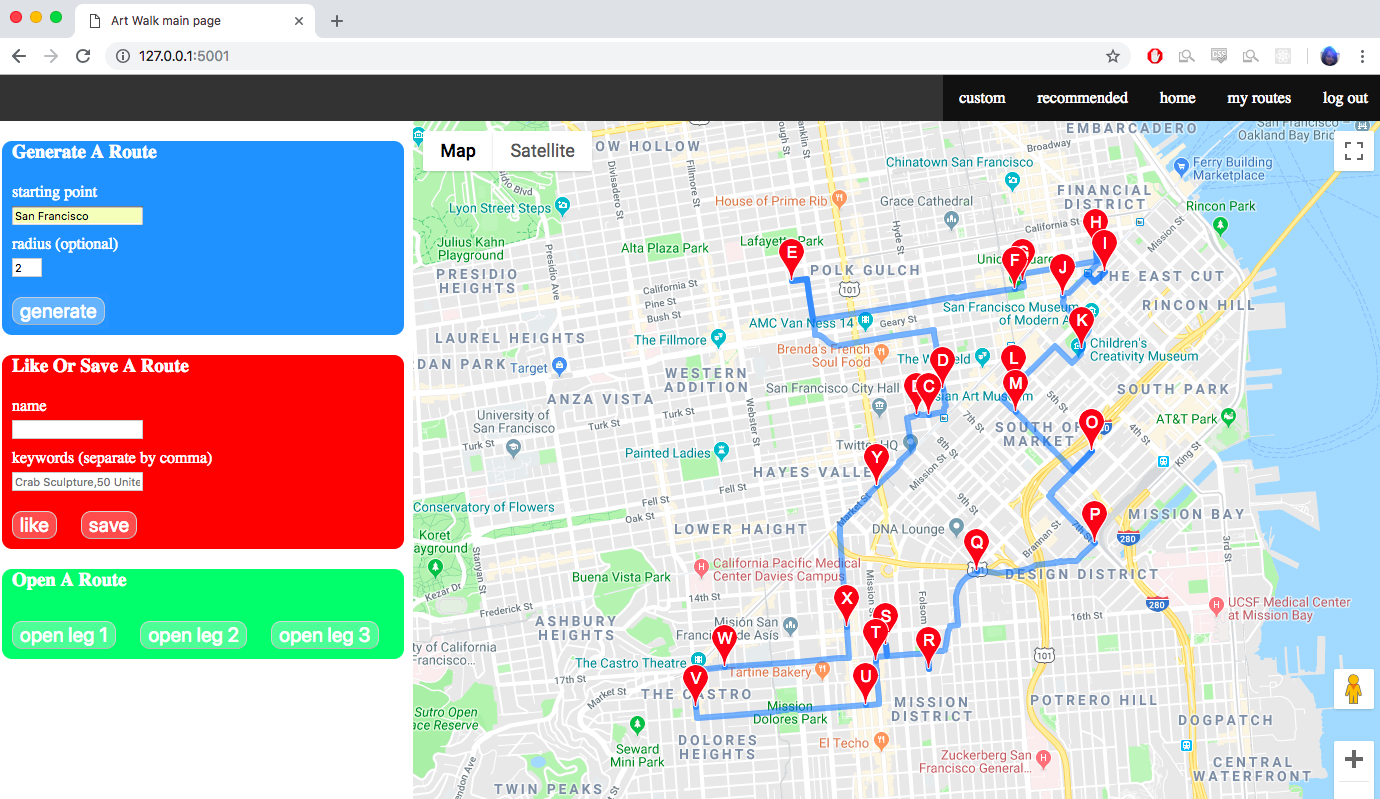
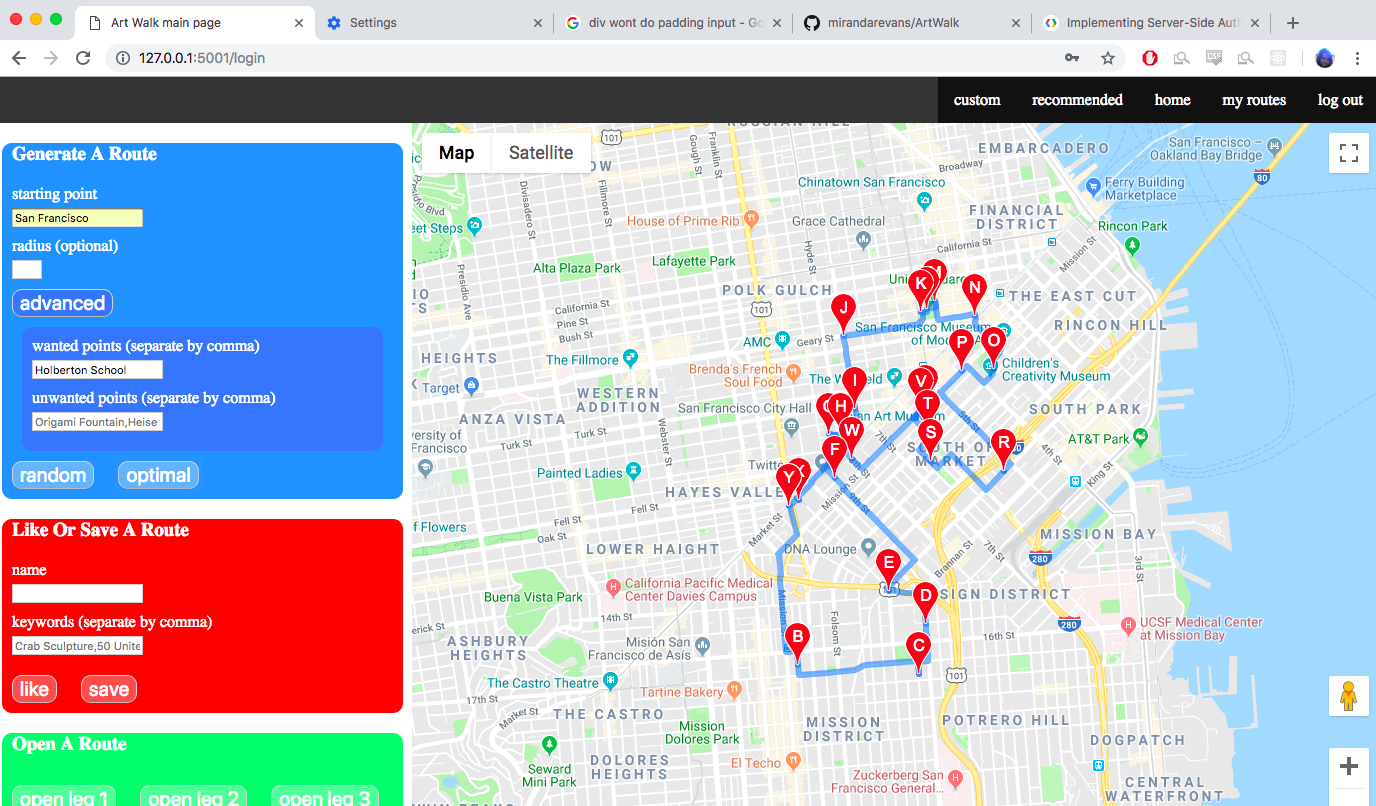
small update to readme

diff --git a/web_dynamic/templates/index.html b/web_dynamic/templates/index.html
@@ -7,9 +7,11 @@
 	<link type="text/css" rel="stylesheet" href="{{ url_for('static', filename='styles/map.css') }}">
 	<link type="text/css" rel="stylesheet" href="{{ url_for('static', filename='styles/form.css') }}">
 	<link type="text/css" rel="stylesheet" href="{{ url_for('static', filename='styles/nav.css') }}">
+	<link type="text/css" rel="stylesheet" href="{{ url_for('static', filename='styles/advanced.css') }}">
 	<script src="https://ajax.googleapis.com/ajax/libs/jquery/3.3.1/jquery.min.js"></script>
 	<script src="{{ url_for('static', filename='scripts/map.js') }}"></script>
 	<script src="{{ url_for('static', filename='scripts/generate.js') }}"></script>
+	<script src="{{ url_for('static', filename='scripts/advanced.js') }}"></script>
 </head>
 <body>
 
@@ -36,6 +38,13 @@
 		<input id="origin" type="text" name="origin">
 		<label for="radius">radius (optional)</label>
 		<input id="radius" type="number" name="radius" min="1" max="5">
+		<button id="advancedbutton">advanced</button>
+		<div id="advanced">
+			<label for="wantedPoints">wanted points (separate by comma)</label>
+			<input type="text" id="wantedPoints" name="wantedPoints" value="" placeholder="Origami Fountain,Heise Metal Sculpture">
+			<label for="unwantedPoints">unwanted points (separate by comma)</label>
+			<input type="text" id="unwantedPoints" name="unwantedPoints" value="" placeholder="Origami Fountain,Heise Metal Sculpture">
+		</div>
 		<button id="random" type="submit" name="random">random</button>
 		<button id="optimal" type="submit" name="optimal">optimal</button>
 	</div>

diff --git a/web_dynamic/static/styles/advanced.css b/web_dynamic/static/styles/advanced.css
@@ -1,0 +1,15 @@
+#advancedbutton {
+	display: block !important;
+	background-color: rgba(119, 66, 244, 0.2) !important;
+	margin-bottom: 0;
+}
+
+#advanced {
+	background-color: rgba(119, 66, 244, 0.2);
+	max-width: 90%;
+	margin: 10px auto auto auto !important;
+	border-radius: 10px;
+	padding-top: 10px;
+	padding-bottom: 10px;
+	display: none;
+}

diff --git a/models/walkingroute.py b/models/walkingroute.py
@@ -56,10 +56,12 @@ class WalkingRoute(Document):
         return points
 
     @staticmethod
-    def generateRoute(origin, optimize=False, radius=1, wantedPoints=[], unwantedPoints=[]):
+    def generateRoute(origin, optimize=False, radius=1, wantedPoints='', unwantedPoints=''):
         '''
             generate a route around an origin point
         '''
+        wantedPoints = wantedPoints.split(',')
+        unwantedPoints = unwantedPoints.split(',')
         originLocation = WalkingRoute.getLocation(origin)
         placeTypes = ['sculpture', 'mural', 'fountain']
 
@@ -68,7 +70,7 @@ class WalkingRoute(Document):
         for keyword in placeTypes:
             try:
                 ## '&rankby=prominence' doesn't place nice with radius, but should be investigated more
-                placeList.extend(requests.get('https://maps.googleapis.com/maps/api/place/nearbysearch/json?key=AIzaSyAhHMgVekplsXZxpqkkwpctPH3fFBe1Ilc&location=' + str(originLocation['geometry']['location']['lat']) + ',' + str(originLocation['geometry']['location']['lng']) + '&radius=' + str(radius * 1609) + '&keyword=' + keyword).json()['results'])
+                placeList.extend(requests.get('https://maps.googleapis.com/maps/api/place/nearbysearch/json?key=AIzaSyAhHMgVekplsXZxpqkkwpctPH3fFBe1Ilc&location=' + str(originLocation['geometry']['location']['lat']) + ',' + str(originLocation['geometry']['location']['lng']) + '&radius=' + str(int(radius) * 1609) + '&keyword=' + keyword).json()['results'])
             except (IndexError, KeyError):
                 return None
         ## removing duplicate elements from placeList is an option, but will take additional computation with little benefit
@@ -76,14 +78,15 @@ class WalkingRoute(Document):
         # add wanted places and choose more places randomly from placeList
         waypoints = []
         for name in wantedPoints:
-            location = WalkingRoute.getLocation(name)
+            location = requests.get('https://maps.googleapis.com/maps/api/place/nearbysearch/json?key=AIzaSyAhHMgVekplsXZxpqkkwpctPH3fFBe1Ilc&location=' + str(originLocation['geometry']['location']['lat']) + ',' + str(originLocation['geometry']['location']['lng']) + '&radius=' + str(16090) + '&keyword=' + name).json()['results'][0]
             if location is not None:
                 waypoints.append(location['place_id'])
 
         if optimize is True:
             placeList = WalkingRoute.findClustering(placeList)
 
-        for i in range(len(waypoints), 23):
+        i = len(waypoints)
+        while i < 23:
             if len(placeList) == 0:
                 break
 
@@ -92,8 +95,9 @@ class WalkingRoute(Document):
             else:
                 randPoint = placeList.pop(random.choice(range(len(placeList))))
 
-            if randPoint['name'] not in wantedPoints and randPoint['name'] not in ['unwantedPoints']:
+            if randPoint['name'] not in wantedPoints and randPoint['name'] not in ['unwantedPoints'] and randPoint.get('price_level') is None:
                 waypoints.append(randPoint['place_id'])
+                i += 1
 
         return {'origin': originLocation['place_id'], 'waypoints': waypoints}
 

diff --git a/README.md b/README.md
@@ -6,7 +6,7 @@ ArtWalk has five front-end routes, used for randomly generating a walking route,
 
 ### Home
 ![screenshot of home](/images/home.png)
-Generate A Route panel is used to randomly generate a route in a particular area. After a route is generated, the Open A Route panel pops up, which provides links to Google Maps. If the user is logged in, a panel to save or like the route pops up as well. The user can choose what name to give the route and what keywords to associate it with.
+Generate A Route panel is used to randomly generate a route in a particular area. The advanced button allows for wanted and unwanted points. After a route is generated, the Open A Route panel pops up, which provides links to Google Maps. If the user is logged in, a panel to save or like the route pops up as well. The user can choose what name to give the route and what keywords to associate it with.
 
 ### Custom
 ![screenshot of custom](/images/custom.png)
